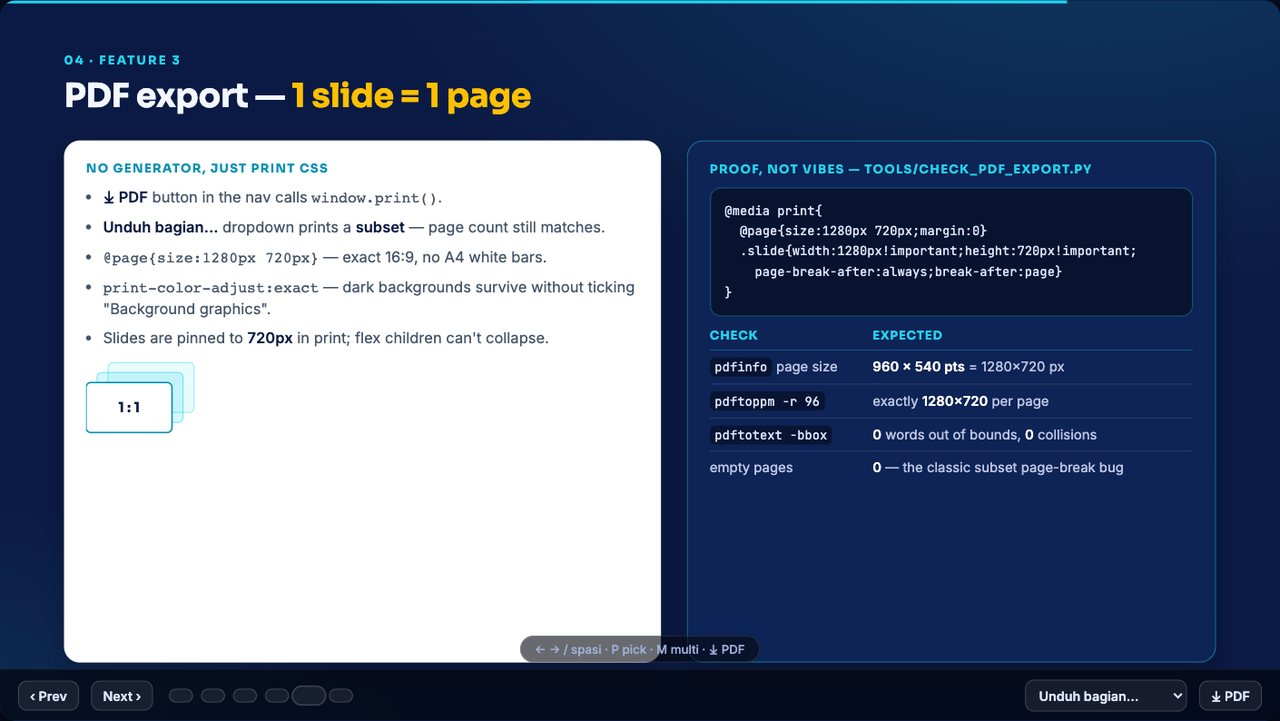
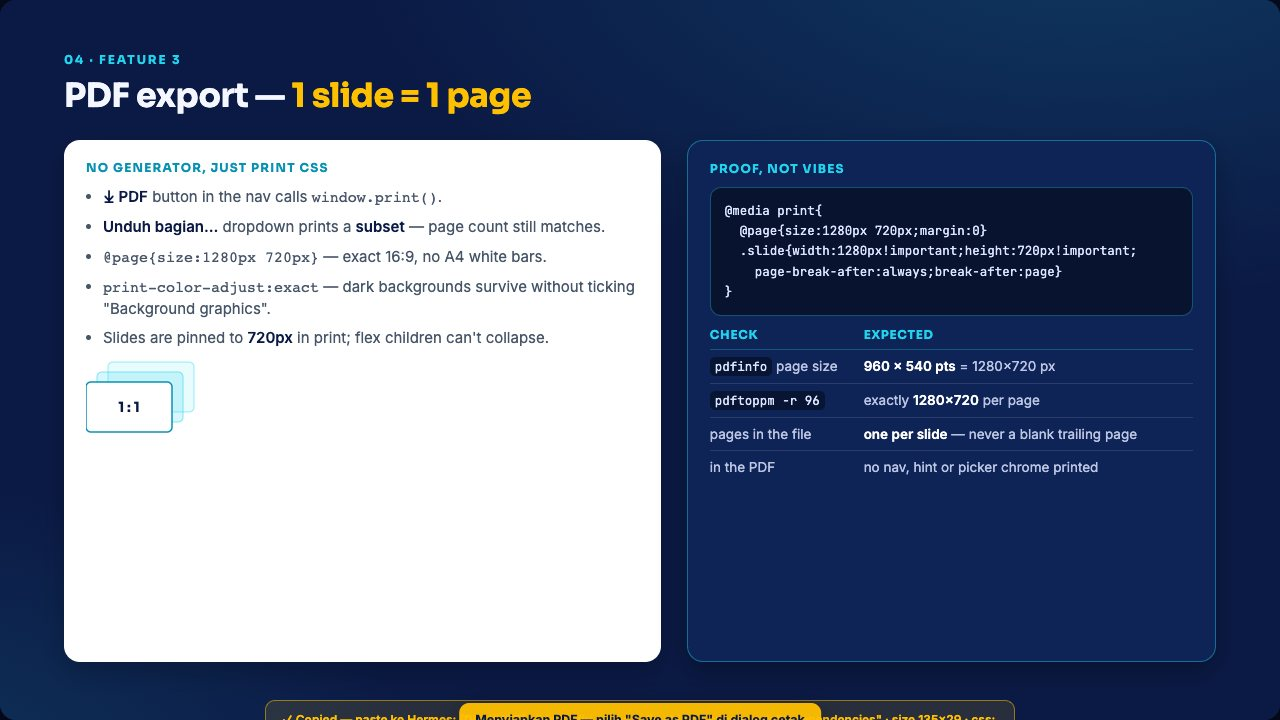
deck slides: catch up with the skill, drop the deleted tooling
The deck still described the repo as it was before the refocus:

- slide 5 credited "Proof, not vibes — tools/check_pdf_export.py" and quoted
  pdftotext -bbox numbers from a script that no longer exists. Now it lists
  what a person can check with pdfinfo / pdftoppm.
- slide 6 told the reader to run tools/check_deck.py and check_pdf_export.py,
  both deleted, and to copy blocks "marked FEATURE 1 / 2 / 3" when the skill
  ships one combined block for the picker. Rewritten around the agent path:
  call /implement-slide-tools, and the SKILL.md / CLAUDE.md / AGENTS.md trio.
  Eyebrow changed to "For your agent" to match.

Refreshed docs/img/pdf-slide.jpg and added quickstart.jpg for the new slide 6.

Verified: all six slides fit (34-363px slack, no ink bleed), P/M/PDF still
work with no console errors, and a real Chrome print gives 6 pages at
960x540 pts (1280x720 px) with 0 words outside the page box.

diff --git a/deck.html b/deck.html
@@ -363,7 +363,7 @@ body.pick-mode,body.pick-mode *{cursor:crosshair !important}
             </svg>
           </div>
           <div class="card tray">
-            <div class="qlabel">Proof, not vibes — tools/check_pdf_export.py</div>
+            <div class="qlabel">Proof, not vibes</div>
             <pre>@media print{
   @page{size:1280px 720px;margin:0}
   .slide{width:1280px!important;height:720px!important;
@@ -373,8 +373,8 @@ body.pick-mode,body.pick-mode *{cursor:crosshair !important}
               <tr><th>Check</th><th>Expected</th></tr>
               <tr><td><code>pdfinfo</code> page size</td><td><b>960 x 540 pts</b> = 1280×720 px</td></tr>
               <tr><td><code>pdftoppm -r 96</code></td><td>exactly <b>1280×720</b> per page</td></tr>
-              <tr><td><code>pdftotext -bbox</code></td><td><b>0</b> words out of bounds, <b>0</b> collisions</td></tr>
-              <tr><td>empty pages</td><td><b>0</b> — the classic subset page-break bug</td></tr>
+              <tr><td>pages in the file</td><td><b>one per slide</b> — never a blank trailing page</td></tr>
+              <tr><td>in the PDF</td><td>no nav, hint or picker chrome printed</td></tr>
             </table>
           </div>
         </div>
@@ -385,21 +385,22 @@ body.pick-mode,body.pick-mode *{cursor:crosshair !important}
     <section class="slide" id="slide-6">
       <div class="canvas">
         <div class="shead">
-          <div class="eyebrow">05 · Use it</div>
+          <div class="eyebrow">05 · For your agent</div>
           <h2>Wire it into <em>your own</em> deck</h2>
         </div>
         <div class="sbody wide">
           <div class="card">
             <div class="qlabel">Three blocks, copy-paste</div>
             <ol class="steps">
-              <li>Clone the repo and open <b>deck.html</b> in Chrome.</li>
-              <li>Copy the blocks marked <b>FEATURE 1 / 2 / 3</b> — CSS, DOM, JS.</li>
-              <li>Set your own <b>DECK_TAG</b> and list your deck chrome in <b>UI_SEL</b>.</li>
-              <li>Run the verifiers below; both must pass before you ship.</li>
+              <li>Point your agent at this repo and call <b>/implement-slide-tools</b>.</li>
+              <li>It reads the deck first — slide container, canvas, chrome.</li>
+              <li>Then pastes the <b>three blocks</b>: CSS, DOM, JS — plus the print CSS.</li>
+              <li>Adapt <b>DECK_TAG</b>, extend <b>UI_SEL</b>, done.</li>
             </ol>
-            <pre>git clone git@github.com:JudgeRozin/ai-presentation-html-deck-toolkit.git
-python3 tools/check_deck.py deck.html --tag DECK-KIT
-python3 tools/check_pdf_export.py deck.html --expect 6</pre>
+            <pre>SKILL.md     Claude Skill / OpenClaw
+CLAUDE.md    Claude Code
+AGENTS.md    Codex / ChatGPT / Cursor
+             — three names, one identical guide</pre>
           </div>
           <div class="card tray">
             <div class="qlabel">Keyboard map</div>
